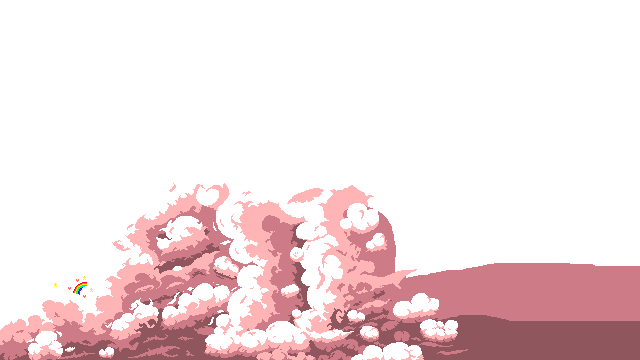
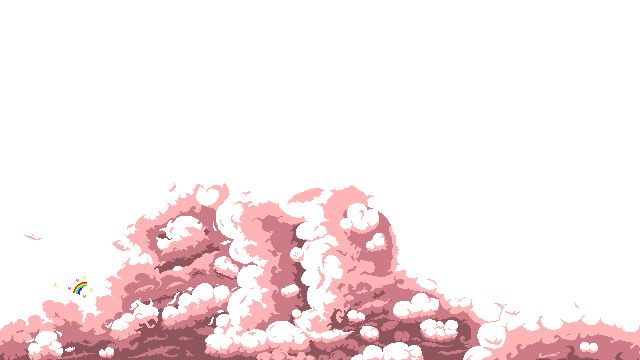
sdgs
dsgdgs

Changed region(s): [[0.5938, 0.6417, 1.0, 1.0], [0.0312, 0.6417, 0.0625, 0.6722]]

diff --git a/content/fovy/html/music.html b/content/fovy/html/music.html
@@ -10,7 +10,7 @@
       <p>disclaimer!</p>
     </div>
     <div class="info">
-      <p>I've been making musics since 2020, I'm <warn>not</warn> a professional by any means, just a guy who knows a thing or two about being a musician</p>
+      <p>I've been making music since 2020, I'm <warn>not</warn> a professional by any means, just a guy who knows a thing or two about being a musician</p>
     </div>
   </div>
 
@@ -33,7 +33,7 @@
   </div>
 
   <script src="../js/music.js"></script>
-  <script src="../js/fakead.js"></script>
+  <script src="../js/ad.js"></script>
   <script src="../js/clouds.js"></script>
 </body>
 </html>

diff --git a/content/fovy/css/index.css b/content/fovy/css/index.css
@@ -12,7 +12,9 @@ body {
   background-image: url("../content/img/background/background.png");
   background-repeat: no-repeat;
   background-size: cover;
-  
+
+  background-position-y: -70px;
+
   image-rendering: pixelated;
 }
 
@@ -130,4 +132,11 @@ body {
   width: 250px;
   position: absolute;
   image-rendering: pixelated;
+}
+
+@media screen and (max-width: 1200px){
+  .app {
+    background-position-y: 0px;
+  }
+  
 }

diff --git a/content/fovy/html/about.html b/content/fovy/html/about.html
@@ -92,12 +92,15 @@
     </div>
   </div>
 
-  
-
   <div class="fake-ad">
     <img id="fake-ad-img" src="">
   </div>
 
-  <script src="../js/fakead.js"></script>
+  <div id="ducky">
+    <img id="ducky-img">
+  </div>
+
+  <script src="../js/ad.js"></script>
+  <script src="../js/ducky.js"></script>
 </body>
 </html>

diff --git a/content/fovy/index.html b/content/fovy/index.html
@@ -46,7 +46,7 @@
     </main>
 
     <div class="display">
-      <iframe id="frame" src="./html/home.html" width="650" height="399"></iframe>
+      <iframe id="frame" src="./html/about.html" width="650" height="399"></iframe>
     </div>
   
   </div>

diff --git a/content/fovy/js/ducky.js b/content/fovy/js/ducky.js
@@ -1,0 +1,6 @@
+
+var ducky         = document.getElementById("ducky");
+var duckyImg      = document.getElementById("ducky-img");
+
+duckyImg.src = "../content/img/ducky/duckyidle2.gif";
+ducky.style = "left: -500px; transform: scaleX(-1);"

diff --git a/content/fovy/css/about.css b/content/fovy/css/about.css
@@ -180,3 +180,16 @@
 
 
 
+#ducky {
+  position: absolute;
+  right: 0;
+  left: 0;
+
+  top: 80px;
+}
+
+#ducky-img {
+  width: 100px;
+  image-rendering: pixelated;
+}
+

diff --git a/index.html b/index.html
@@ -37,7 +37,7 @@
 
   <br><br><br><br><br><br>
 
-  <div id="games">
+  <div id="games" style="transition: all 50ms ease-in-out;">
     <h2>games</h2>
   </div>
 

diff --git a/content/fovy/html/home.html b/content/fovy/html/home.html
@@ -30,6 +30,6 @@
     </div>
   </div>  
 
-  <script src="../js/fakead.js"></script>
+  <script src="../js/ad.js"></script>
 </body>
 </html>
